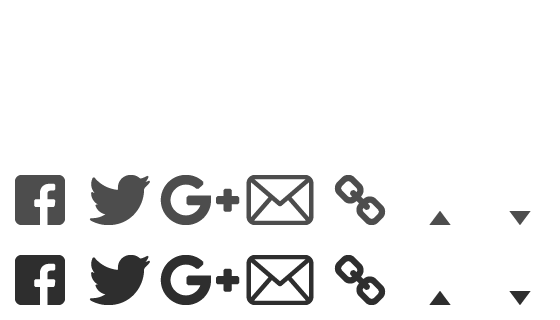
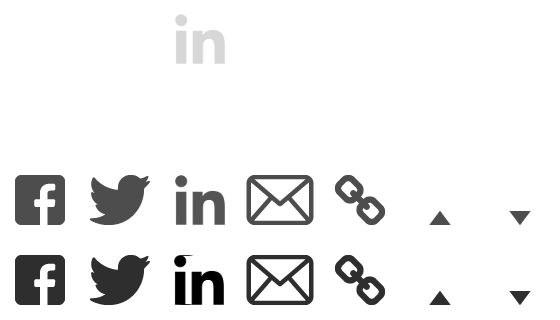
Final adjustments

Changed region(s): [[0.2732, 0.5312, 0.425, 0.7188], [0.2732, 0.7812, 0.425, 0.9688], [0.3036, 0.0312, 0.425, 0.2188]]

diff --git a/js/settings.js b/js/settings.js
@@ -66,23 +66,27 @@ var socialIconSettings = {
     "position": "right",
     "icons": {
         "facebook": {
-            "url": "https://facebook.com",
+            "url": "https://www.facebook.com/DialogGroep/",
             "text": "Facebook"
         },
         "twitter": {
-            "url": "https://twitter.com",
+            "url": "https://twitter.com/DocumentDialog",
             "text": "Twitter"
         },
         "googleplus": {
-            "url": "https://plus.google.com",
-            "text": "Google+"
+            "url": "https://www.linkedin.com/company/42289/ ",
+            "text": "LinkedIn"
         },
+        // "googleplus": {
+        //     "url": "https://plus.google.com",
+        //     "text": "Google+"
+        // },
         "email": {
-            "url": "mailto:gerard.boele@dialoggroep.eu?subject=Bericht%20over%20EngageOne%20Video",
+            "url": "mailto:connect@dialoggroep.eu?subject=Bericht%20over%20EngageOne%20Video",
             "text": "Email"
         },
         "link": {
-            "url": "https://dialoggroep.eu/",
+            "url": "https://documentdialog.eu/interactieve-gepersonaliseerde-video/",
             "text": "Website"
         }
     }

diff --git a/index.html b/index.html
@@ -125,7 +125,7 @@
 
                 <button type="button" data-button="button4" class="cta__button cta__button--button-4" tabindex="4">
                     <div class="cta__icon cta__icon--save jsCtaIcon"></div>
-                    <span class="translate" data-translate="CtaButton4">ROI Calculator</span>
+                    <span class="translate" data-translate="CtaButton4">Bereken je besparing</span>
                 </button>
 
                 <!-- <button type="button" data-button="button5" class="cta__button cta__button--button-5" tabindex="4">
